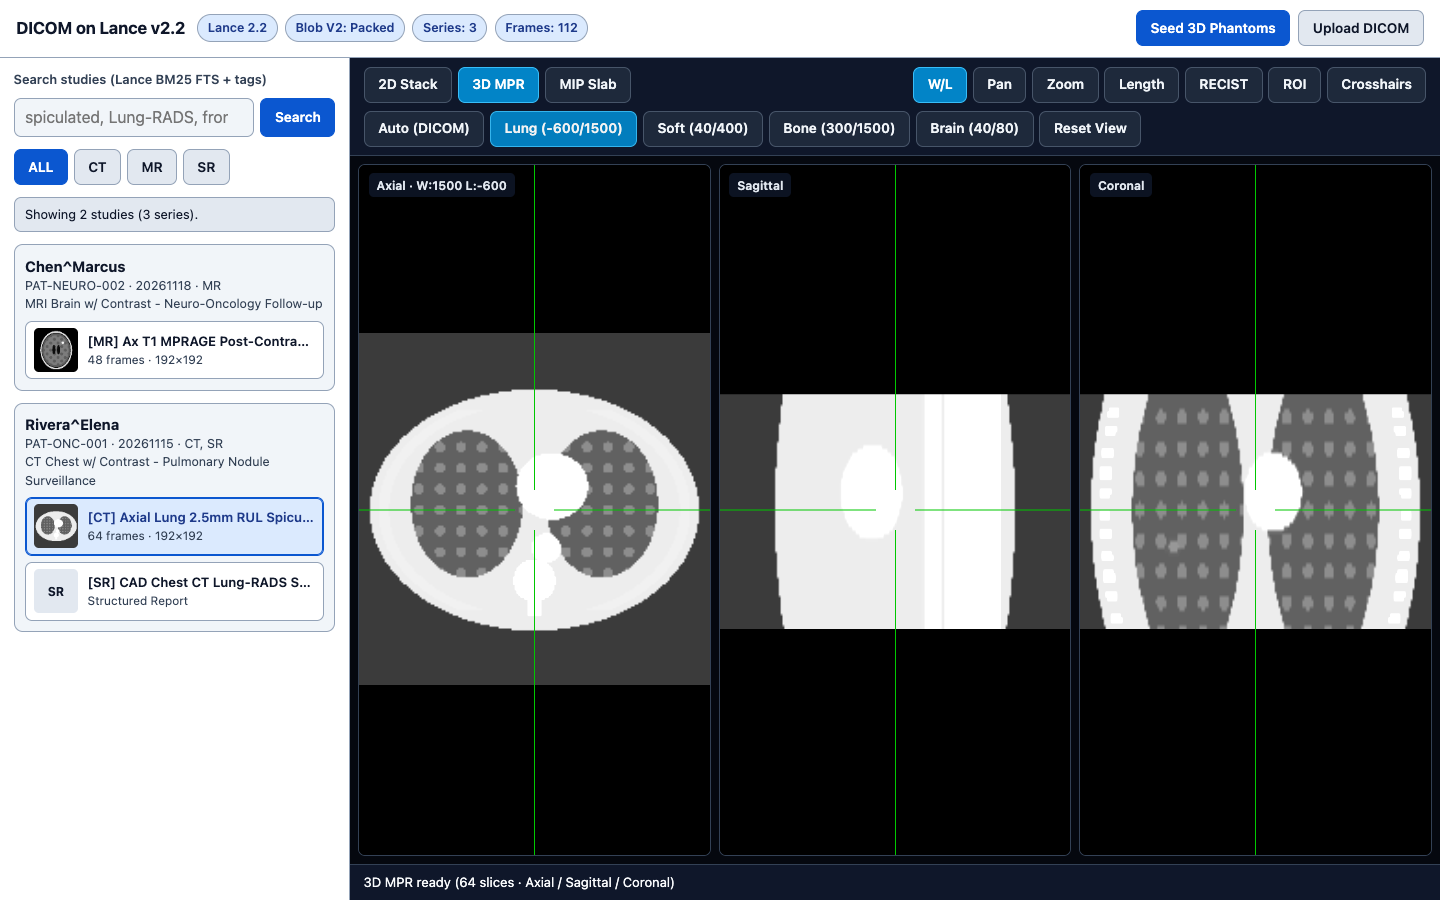
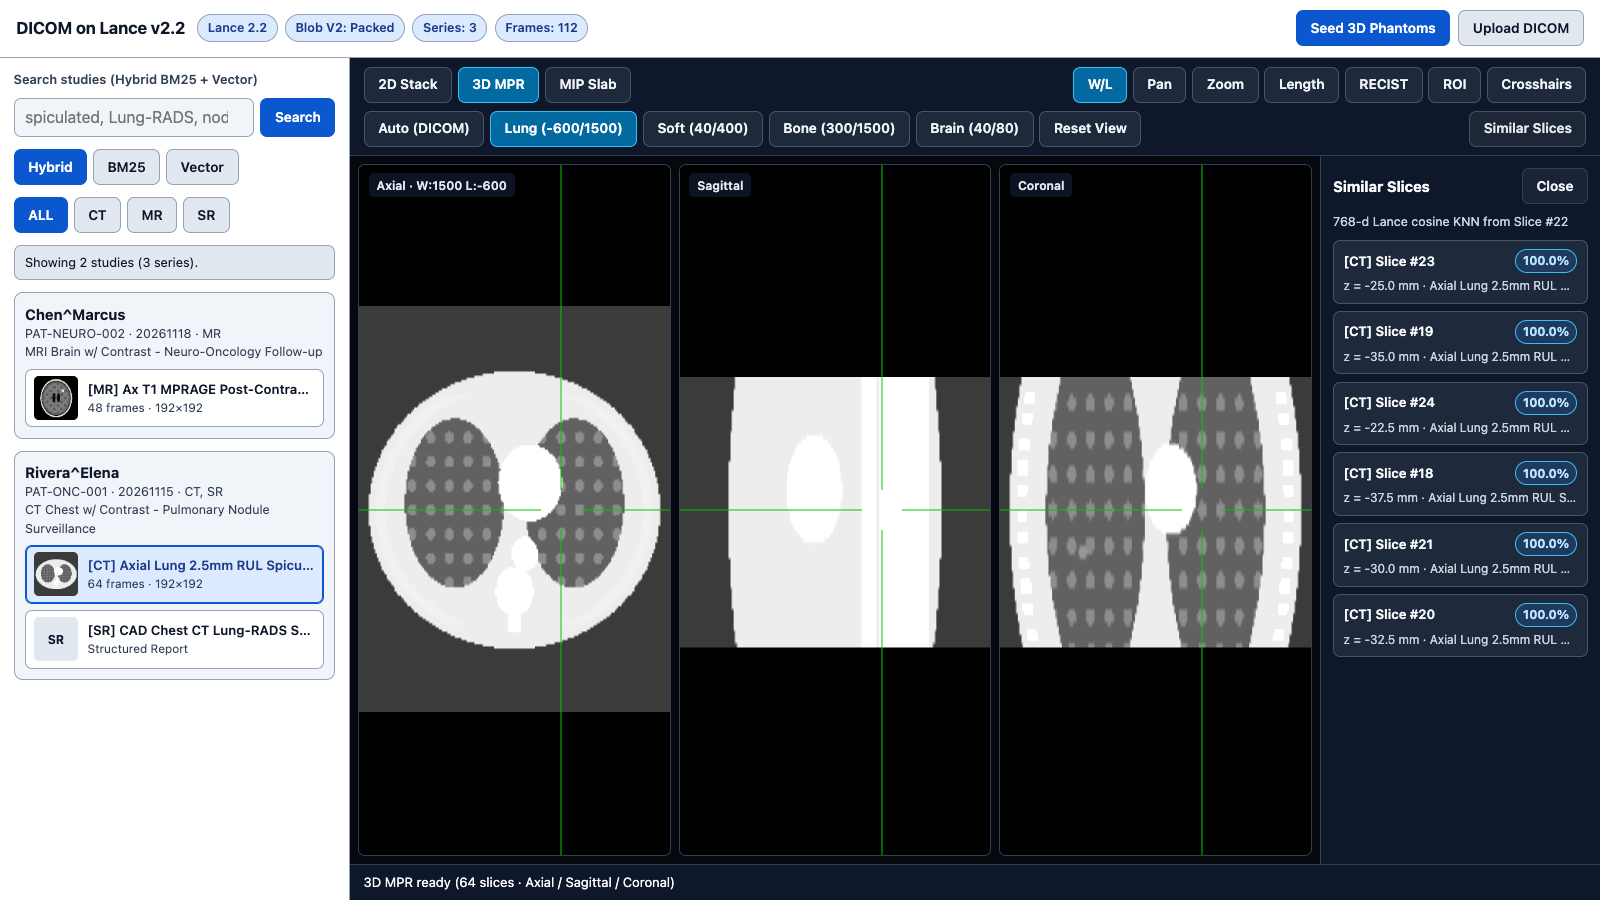
chore(release): prepare v0.2.0 release, changelog, preview, and GHCR workflow

diff --git a/CHANGELOG.md b/CHANGELOG.md
@@ -1,0 +1,38 @@
+# Changelog
+
+All notable changes to `dicom-lance` are documented in this file.
+
+The format follows [Keep a Changelog](https://keepachangelog.com/en/1.1.0/), and this project adheres to [Semantic Versioning](https://semver.org/spec/v2.0.0.html).
+
+## [0.2.0] - 2026-11-23
+
+### Added
+- **Multimodal 768-d Embeddings (`src/embedding.rs`)**:
+  - Default pure-Rust `LocalMultimodalEmbedder` combining non-negative SHA-256 text n-gram/prefix hashing (`512` dims) and pixel radiomics/spatial/gradient descriptors (`256` dims), L2-normalized to unit norm (`l2_normalize`).
+  - Pluggable OpenAI-compatible `HttpEmbedder` configured via `--embedder-url` / `EMBEDDER_URL`, `--embedder-model` / `EMBEDDER_MODEL`, and `--embedder-api-key` / `EMBEDDER_API_KEY`.
+- **Hybrid BM25 + Vector Search & "Find Similar Slices" (`src/store.rs`, `src/api.rs`)**:
+  - `SearchMode::{Hybrid, Bm25, Vector}` powered by Lance `Inverted` BM25 full-text search, `Scanner::nearest` (`MetricType::Cosine`), and deterministic Reciprocal Rank Fusion (`rrf_fuse`, `k = 60`).
+  - Automatic `IVF_FLAT` vector index creation when dataset row counts reach `>= 256` (exact Cosine KNN below threshold).
+  - `GET /api/studies/{study}/series/{series}/instances/{sop}/frames/{frame}/similar` endpoint for intra/cross-series similar slice lookup.
+- **Dataset Handle Caching & Scalar Indexing (`src/store.rs`)**:
+  - Cached open `Arc<Dataset>` handles (`series_cache` / `frames_cache`) with atomic cache-hit counters (`cache_hits_series`, `cache_hits_frames` in `/api/stats`), atomic post-ingest refresh, `invalidate_cache`, and `frames_study_uid_btree`.
+- **Remote & Cloud Object Storage URIs (`Cargo.toml`, `src/store.rs`, `src/main.rs`)**:
+  - `StorageRoot` & `parse_storage_root` supporting `--dataset-uri` (`DATASET_URI`) and URI-aware `--data-dir` for local paths, `file://`, `shared-memory://`, `memory://`, and feature-gated cloud stores (`--features cloud`, `cloud-s3`, `cloud-gcs`, `cloud-azure`).
+  - Remote-safe phantom seeding via temporary scratch directory cleanup.
+- **Viewer UI Enhancements (`web/src/`)**:
+  - Sidebar `Hybrid` / `BM25` / `Vector` search mode toggle.
+  - **"Similar Slices"** toolbar button and accessible side panel (`768-d Cosine KNN`) with match percentages and click-to-jump navigation.
+- **Automation & Release Packaging**:
+  - `.github/workflows/release.yml` to build and push multi-stage runtime images to `ghcr.io/brucearctor/dicom-lance` on version tags (`v*`).
+- **Tests**:
+  - Rust Hegel PBT properties for `LocalMultimodalEmbedder`, `rrf_fuse`, and `StorageRoot` normalization, plus integration tests for hybrid/vector search, `/similar`, dataset handle caching, mock `/v1/embeddings` `HttpEmbedder`, and `shared-memory://` object store end-to-end flows.
+  - Updated Vitest + `@hegeldev/hegel` PBT and hermetic/live Playwright E2E coverage.
+
+### Fixed
+- Added `role="region"` to Cornerstone viewport host containers and darkened active toolbar button color (`#0369a1`) to maintain `0` WCAG 2.2 AA (`aria-prohibited-attr`, `color-contrast`, `target-size`) axe-core violations while viewing DICOM canvases and the Similar Slices panel.
+
+## [0.1.0] - 2026-11-23
+
+### Added
+- Initial release of `dicom-lance`: DICOM Part-10 ingestion, 3D oblique slice sorting, recursive DICOM SR extraction, 128×128 PNG thumbnails, Lance v2.2 two-dataset schema (`Blob V2` `Packed` sidecar files + `Inverted` BM25 FTS + `BTree` indexes), Axum DICOMweb server (`STOW-RS`, `QIDO-RS`, `WADO-RS` metadata and `take_blobs`/`read_range` frames), and React 19 + TypeScript + Cornerstone3D v4 2D Stack / 3D MPR viewer.
+- Rust `hegeltest` and TypeScript `@hegeldev/hegel` property-based tests, integration tests, hermetic WCAG 2.2 AA & live WebGL2 Playwright E2E suites, `cargo-deny` license gate, and multi-stage non-root Docker image.

diff --git a/README.md b/README.md
@@ -53,6 +53,10 @@ cargo run --release -- --seed-on-start --port 8090 --data-dir ./data
 ### Docker Quickstart
 
 ```bash
+# Run the published container image from GHCR (amd64)
+docker run --rm -p 8090:8090 -e SEED_ON_START=true ghcr.io/brucearctor/dicom-lance:latest
+
+# Or build locally
 docker build -t dicom-lance .
 docker run --rm -p 8090:8090 -e SEED_ON_START=true dicom-lance
 ```
@@ -107,8 +111,8 @@ npm run test:e2e:live
 - **Research / Non-Diagnostic Use Only**: `dicom-lance` is an experimental reference implementation. It is **not** FDA-cleared, CE-marked, or intended for primary clinical diagnosis.
 - **Network Exposure**: By default the HTTP server binds to `127.0.0.1:8090` with permissive CORS and **no built-in authentication**. Place it behind TLS, authentication, and authorization before serving real patient data or exposing it beyond localhost. See [SECURITY.md](SECURITY.md) for deployment guidance.
 
-## Contributing & License
+## Contributing, Changelog & License
 
-Contributions are welcome — see [CONTRIBUTING.md](CONTRIBUTING.md).
+See [CHANGELOG.md](CHANGELOG.md) for release notes. Contributions are welcome — see [CONTRIBUTING.md](CONTRIBUTING.md).
 
 Licensed under the [Apache License, Version 2.0](LICENSE).
